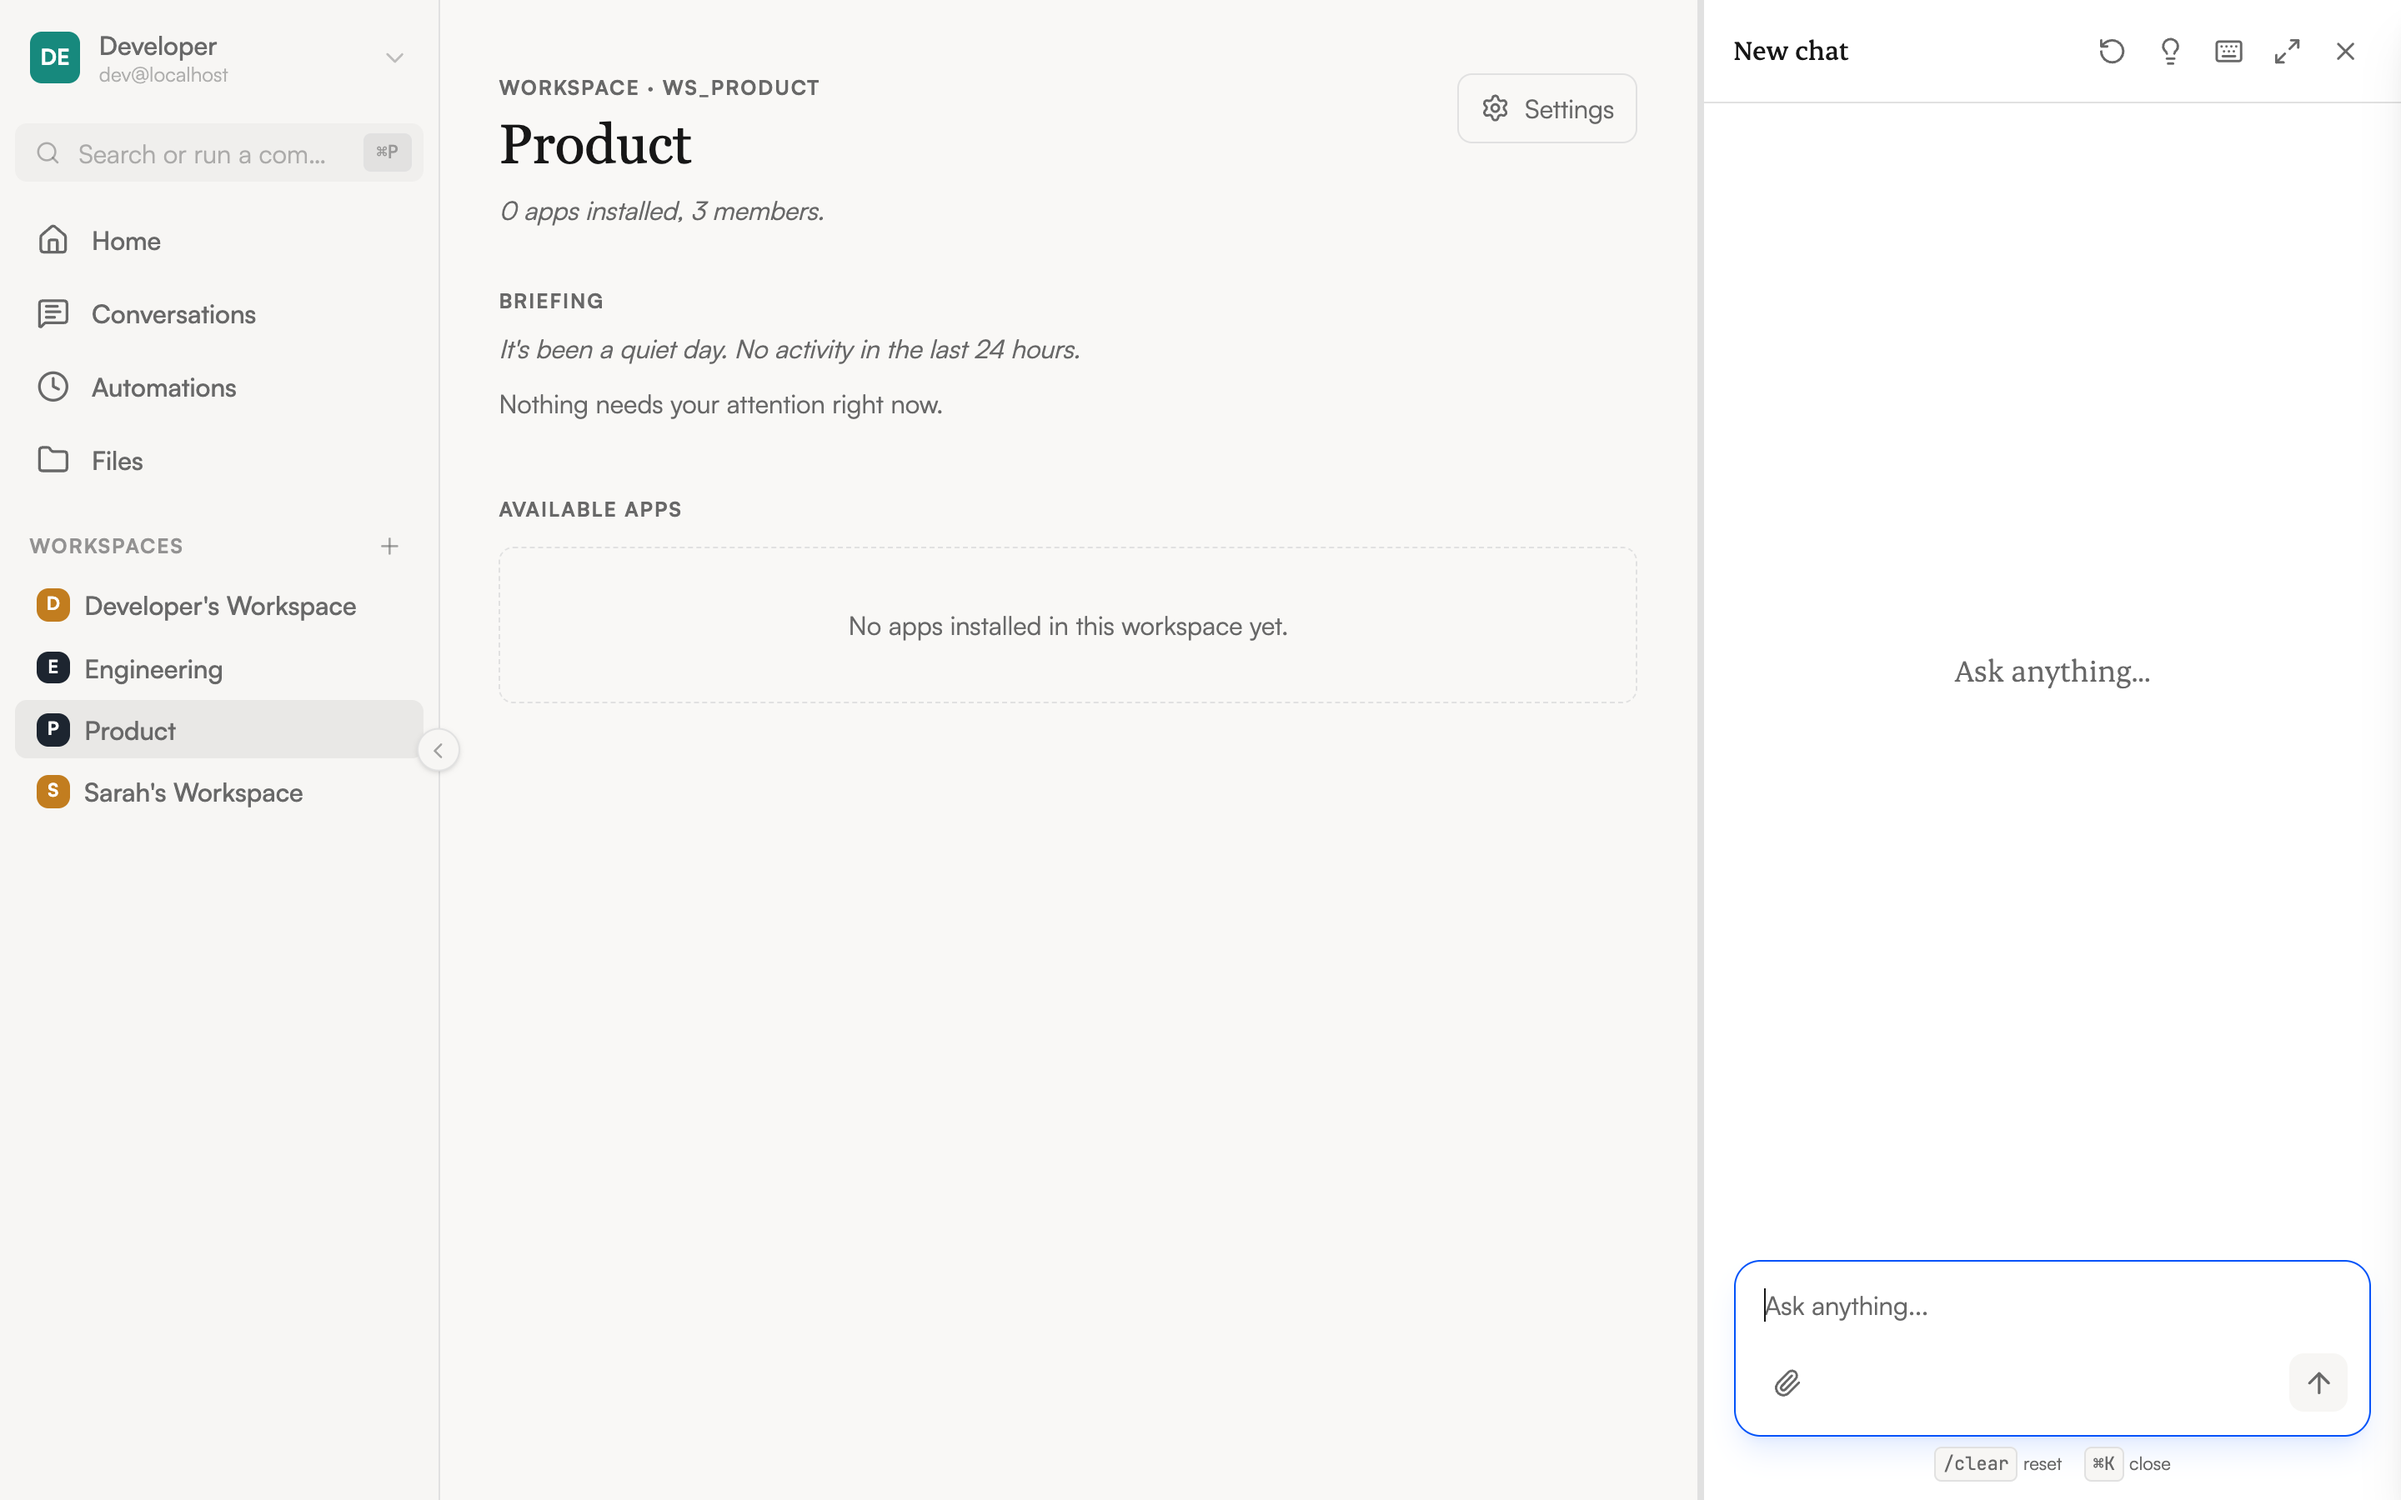
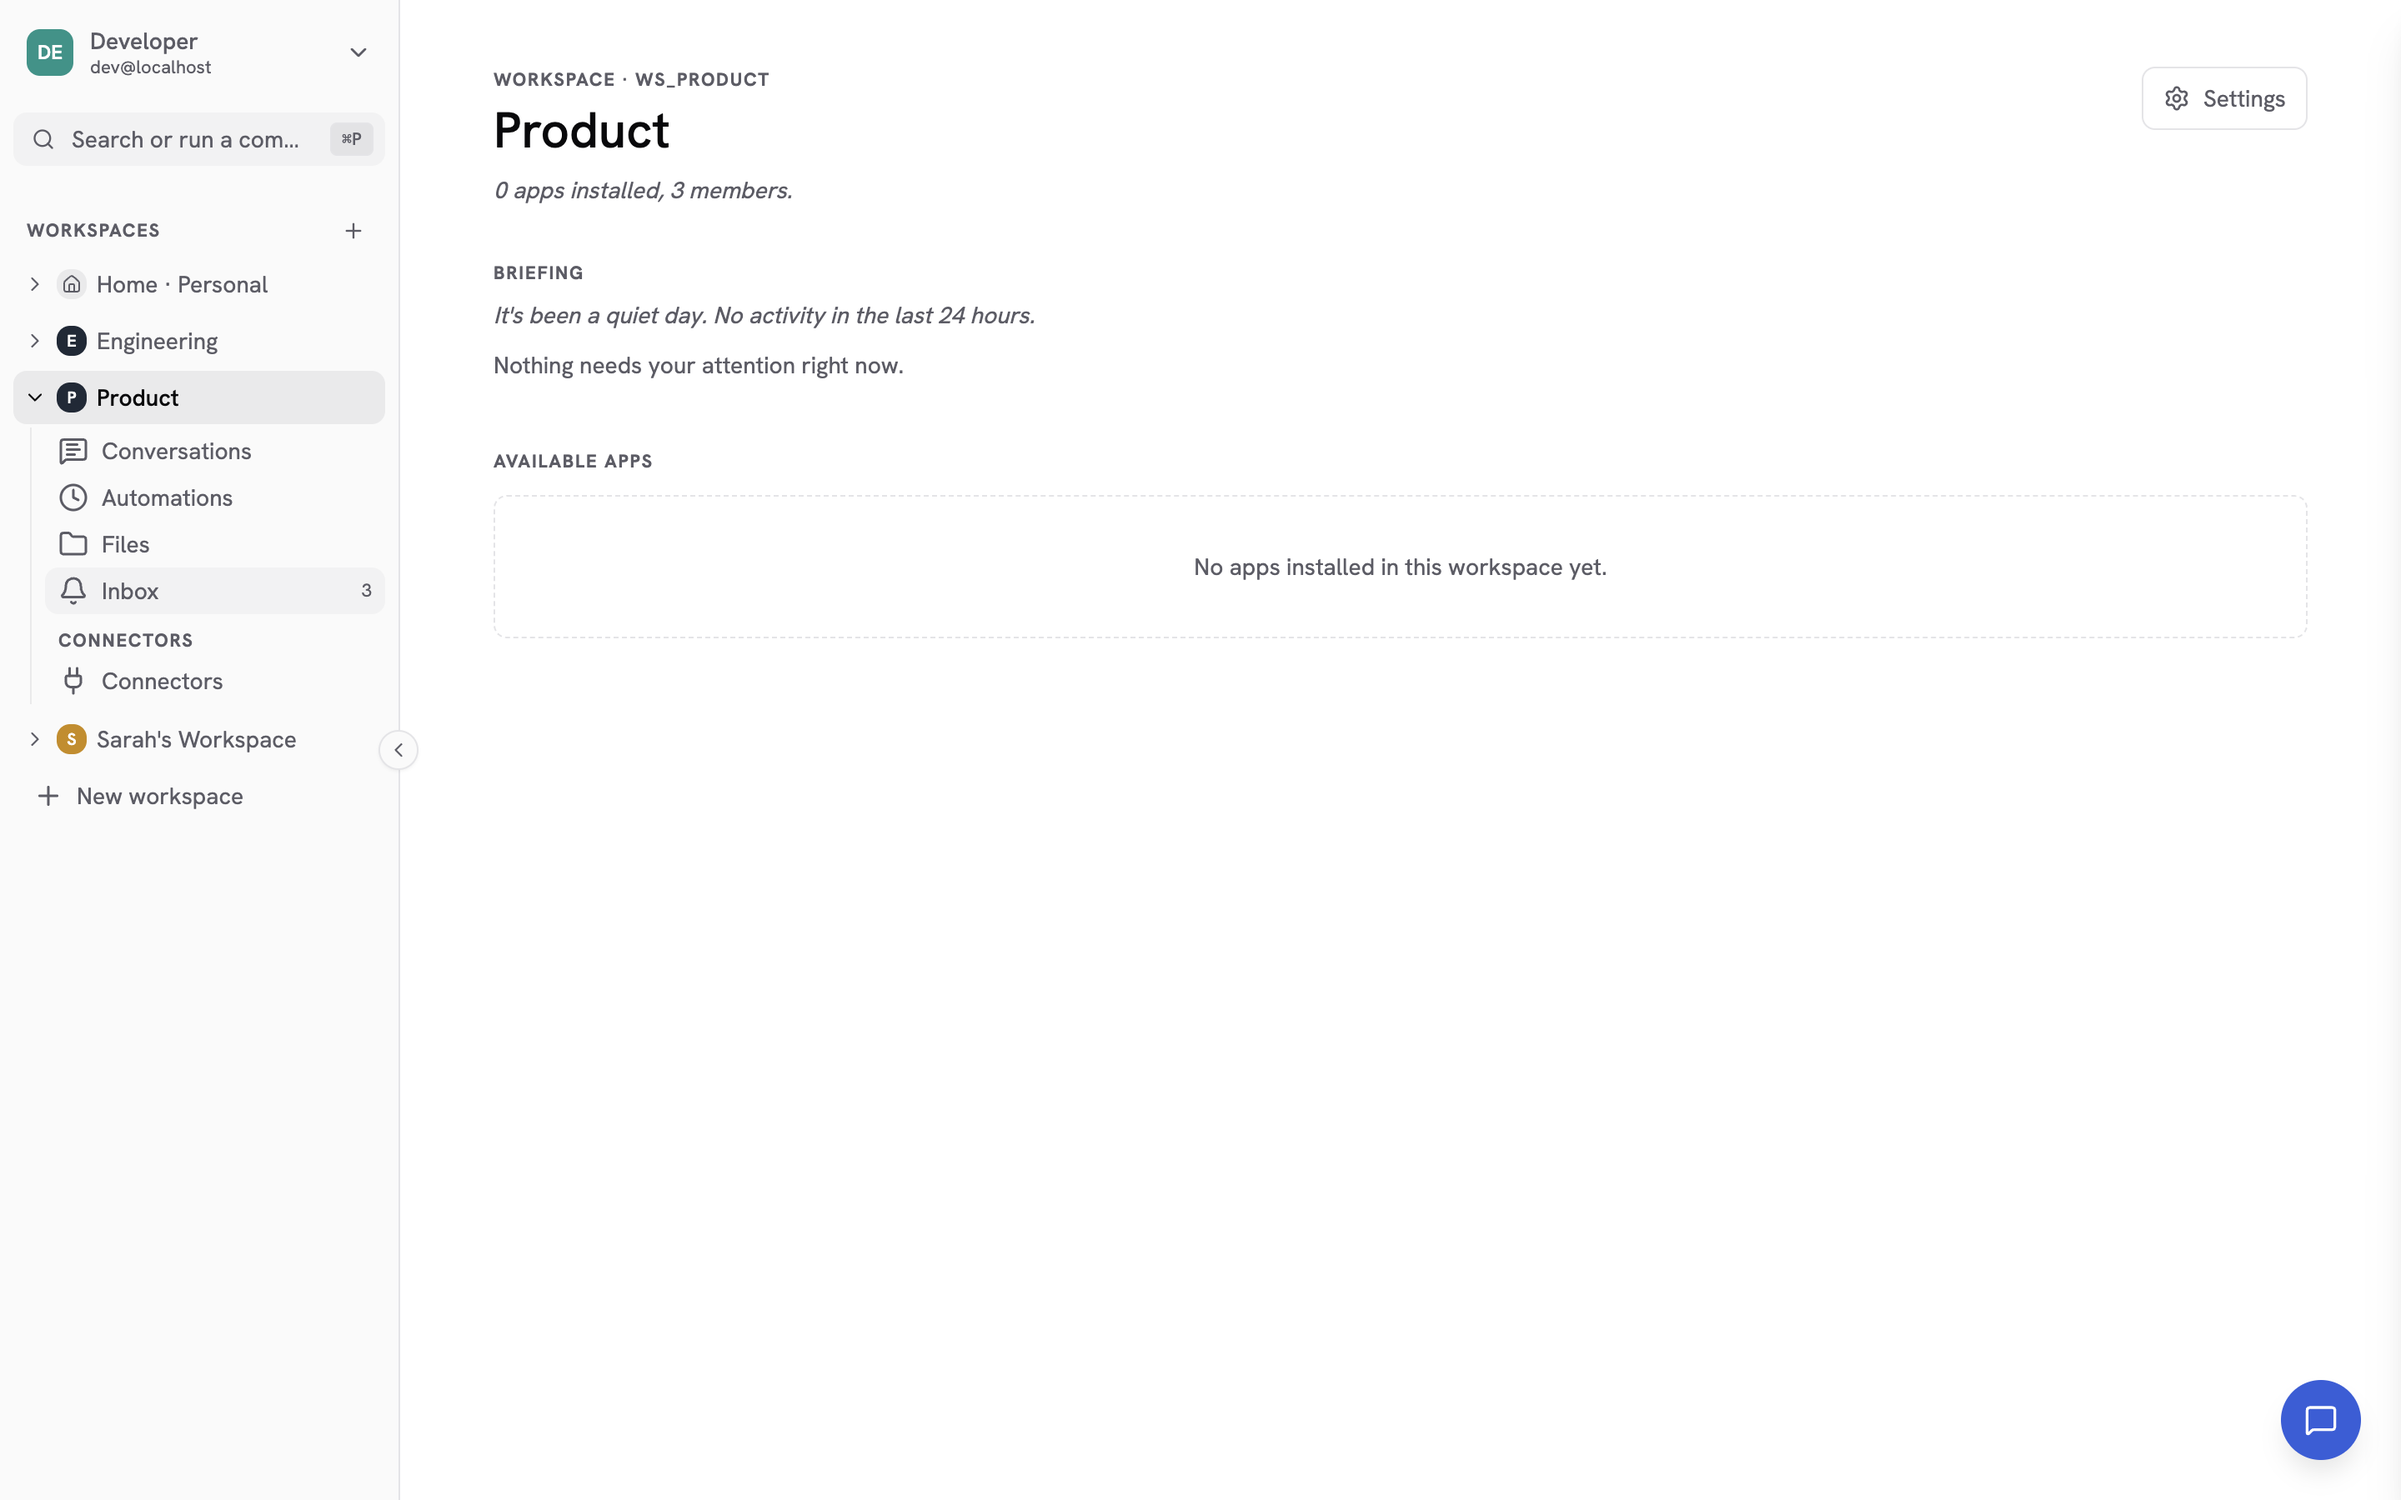
Docs for the inbox and the notification settings, with screenshots
The operator guide at `using/notifications.mdx`, registered under
"Working with the agent": the inbox and how it sorts, the per-source
ceiling and why a new source starts at `info`, routes — match, tool
targets, the four placeholders, agent targets — the delivery ledger, and
the saved-but-not-executed state. Plus the Inbox row in
`guide/interface.mdx`, `notifications.sources` / `notifications.routes`
with `createdBy` explained in `config/workspace-json.mdx`, and a pointer
from `using/workspaces.mdx`.

The two screenshots come from the docs-demo environment the guide
already captures from, so they regenerate rather than being pasted in.
That environment gains a notifications fixture for the Product workspace
and a ceilings-and-routes block on its record; `interface-layout.png`
re-renders to show the Inbox row the page now describes.

The route editor keeps a target the workspace no longer has in its
picker, labelled — dropping it would silently rewrite the route to
"nothing" the next time anyone pressed Save.

Claude-Session: https://claude.ai/code/session_01WMTVms1X4BErwqHvX4PacT

diff --git a/web/src/pages/settings/WorkspaceNotificationsTab.tsx b/web/src/pages/settings/WorkspaceNotificationsTab.tsx
@@ -403,6 +403,19 @@ function TargetEditor({
   onRemove?: () => void;
 }) {
   const placeholders = (settings?.placeholders ?? []).map((p) => `{{${p}}}`).join(", ");
+  // A route can outlive the thing it names — the connector was uninstalled, the
+  // automation deleted. Dropping the stored value from the picker would silently
+  // rewrite the route to "nothing" the next time anyone pressed Save, so the
+  // gone target stays selectable and says what it is. Saving it is refused,
+  // which is the reader's cue to change or remove it.
+  const toolOptions = withCurrent(
+    settings?.deliverableTools ?? [],
+    target.kind === "tool" ? target.tool : "",
+  );
+  const automationOptions = withCurrentAutomation(
+    settings?.automations ?? [],
+    target.kind === "agent" ? target.automation : "",
+  );
   return (
     <div className="rounded-sm bg-muted/40 p-3 space-y-2" data-testid="route-target">
       <div className="flex flex-wrap items-end gap-3">
@@ -434,9 +447,9 @@ function TargetEditor({
                 onChange={(e) => onChange({ ...target, tool: e.target.value })}
               >
                 <option value="">Choose a tool…</option>
-                {(settings?.deliverableTools ?? []).map((name) => (
-                  <option key={name} value={name}>
-                    {name}
+                {toolOptions.map(({ value, label }) => (
+                  <option key={value} value={value}>
+                    {label}
                   </option>
                 ))}
               </Select>
@@ -450,9 +463,9 @@ function TargetEditor({
                 onChange={(e) => onChange({ ...target, automation: e.target.value })}
               >
                 <option value="">Choose an automation…</option>
-                {(settings?.automations ?? []).map((a) => (
-                  <option key={a.id} value={a.id}>
-                    {a.name}
+                {automationOptions.map(({ value, label }) => (
+                  <option key={value} value={value}>
+                    {label}
                   </option>
                 ))}
               </Select>
@@ -488,6 +501,32 @@ function TargetEditor({
 }
 
 // -- helpers --------------------------------------------------------------
+
+interface Option {
+  value: string;
+  label: string;
+}
+
+/** The workspace's tools, plus a stored one it no longer has. */
+function withCurrent(available: readonly string[], current: string): Option[] {
+  const options = available.map((value) => ({ value, label: value }));
+  if (current && !available.includes(current)) {
+    options.unshift({ value: current, label: `${current} — no longer installed` });
+  }
+  return options;
+}
+
+/** The caller's automations, plus a stored one that is gone. */
+function withCurrentAutomation(
+  available: readonly { id: string; name: string }[],
+  current: string,
+): Option[] {
+  const options = available.map((a) => ({ value: a.id, label: a.name }));
+  if (current && !available.some((a) => a.id === current)) {
+    options.unshift({ value: current, label: `${current} — no longer available` });
+  }
+  return options;
+}
 
 /** Drop the keys an "any" selection cleared, so an empty match stays empty. */
 function prune(match: NotificationRouteMatch): NotificationRouteMatch {

diff --git a/.environments/docs-demo/capture-screenshots.ts b/.environments/docs-demo/capture-screenshots.ts
@@ -170,6 +170,26 @@ async function main() {
   await sleep(1000);
   await screenshot(ws, "shortcuts-modal.png");
 
+  // ── 3. The notification inbox, with one item opened ──
+  // Opening a row is what reveals the body, the event name and the delivery
+  // ledger, which is most of what the page is for — a closed list would show
+  // titles and nothing the docs page talks about.
+  console.log("\n3. Notification inbox");
+  await navigate(ws, `${BASE_URL}/w/product/notifications`);
+  await sleep(1500);
+  await evaluateJS(
+    ws,
+    `document.querySelectorAll('[data-testid="notification-row"]')[0]?.click()`,
+  );
+  await sleep(800);
+  await screenshot(ws, "notifications-inbox.png");
+
+  // ── 4. Notification settings — ceilings and the route editor ──
+  console.log("\n4. Notification settings");
+  await navigate(ws, `${BASE_URL}/w/product/settings/notifications`);
+  await sleep(1500);
+  await screenshot(ws, "notifications-settings.png");
+
   console.log("\n✅ Screenshots captured to:", OUTPUT_DIR);
 
   ws.close();
